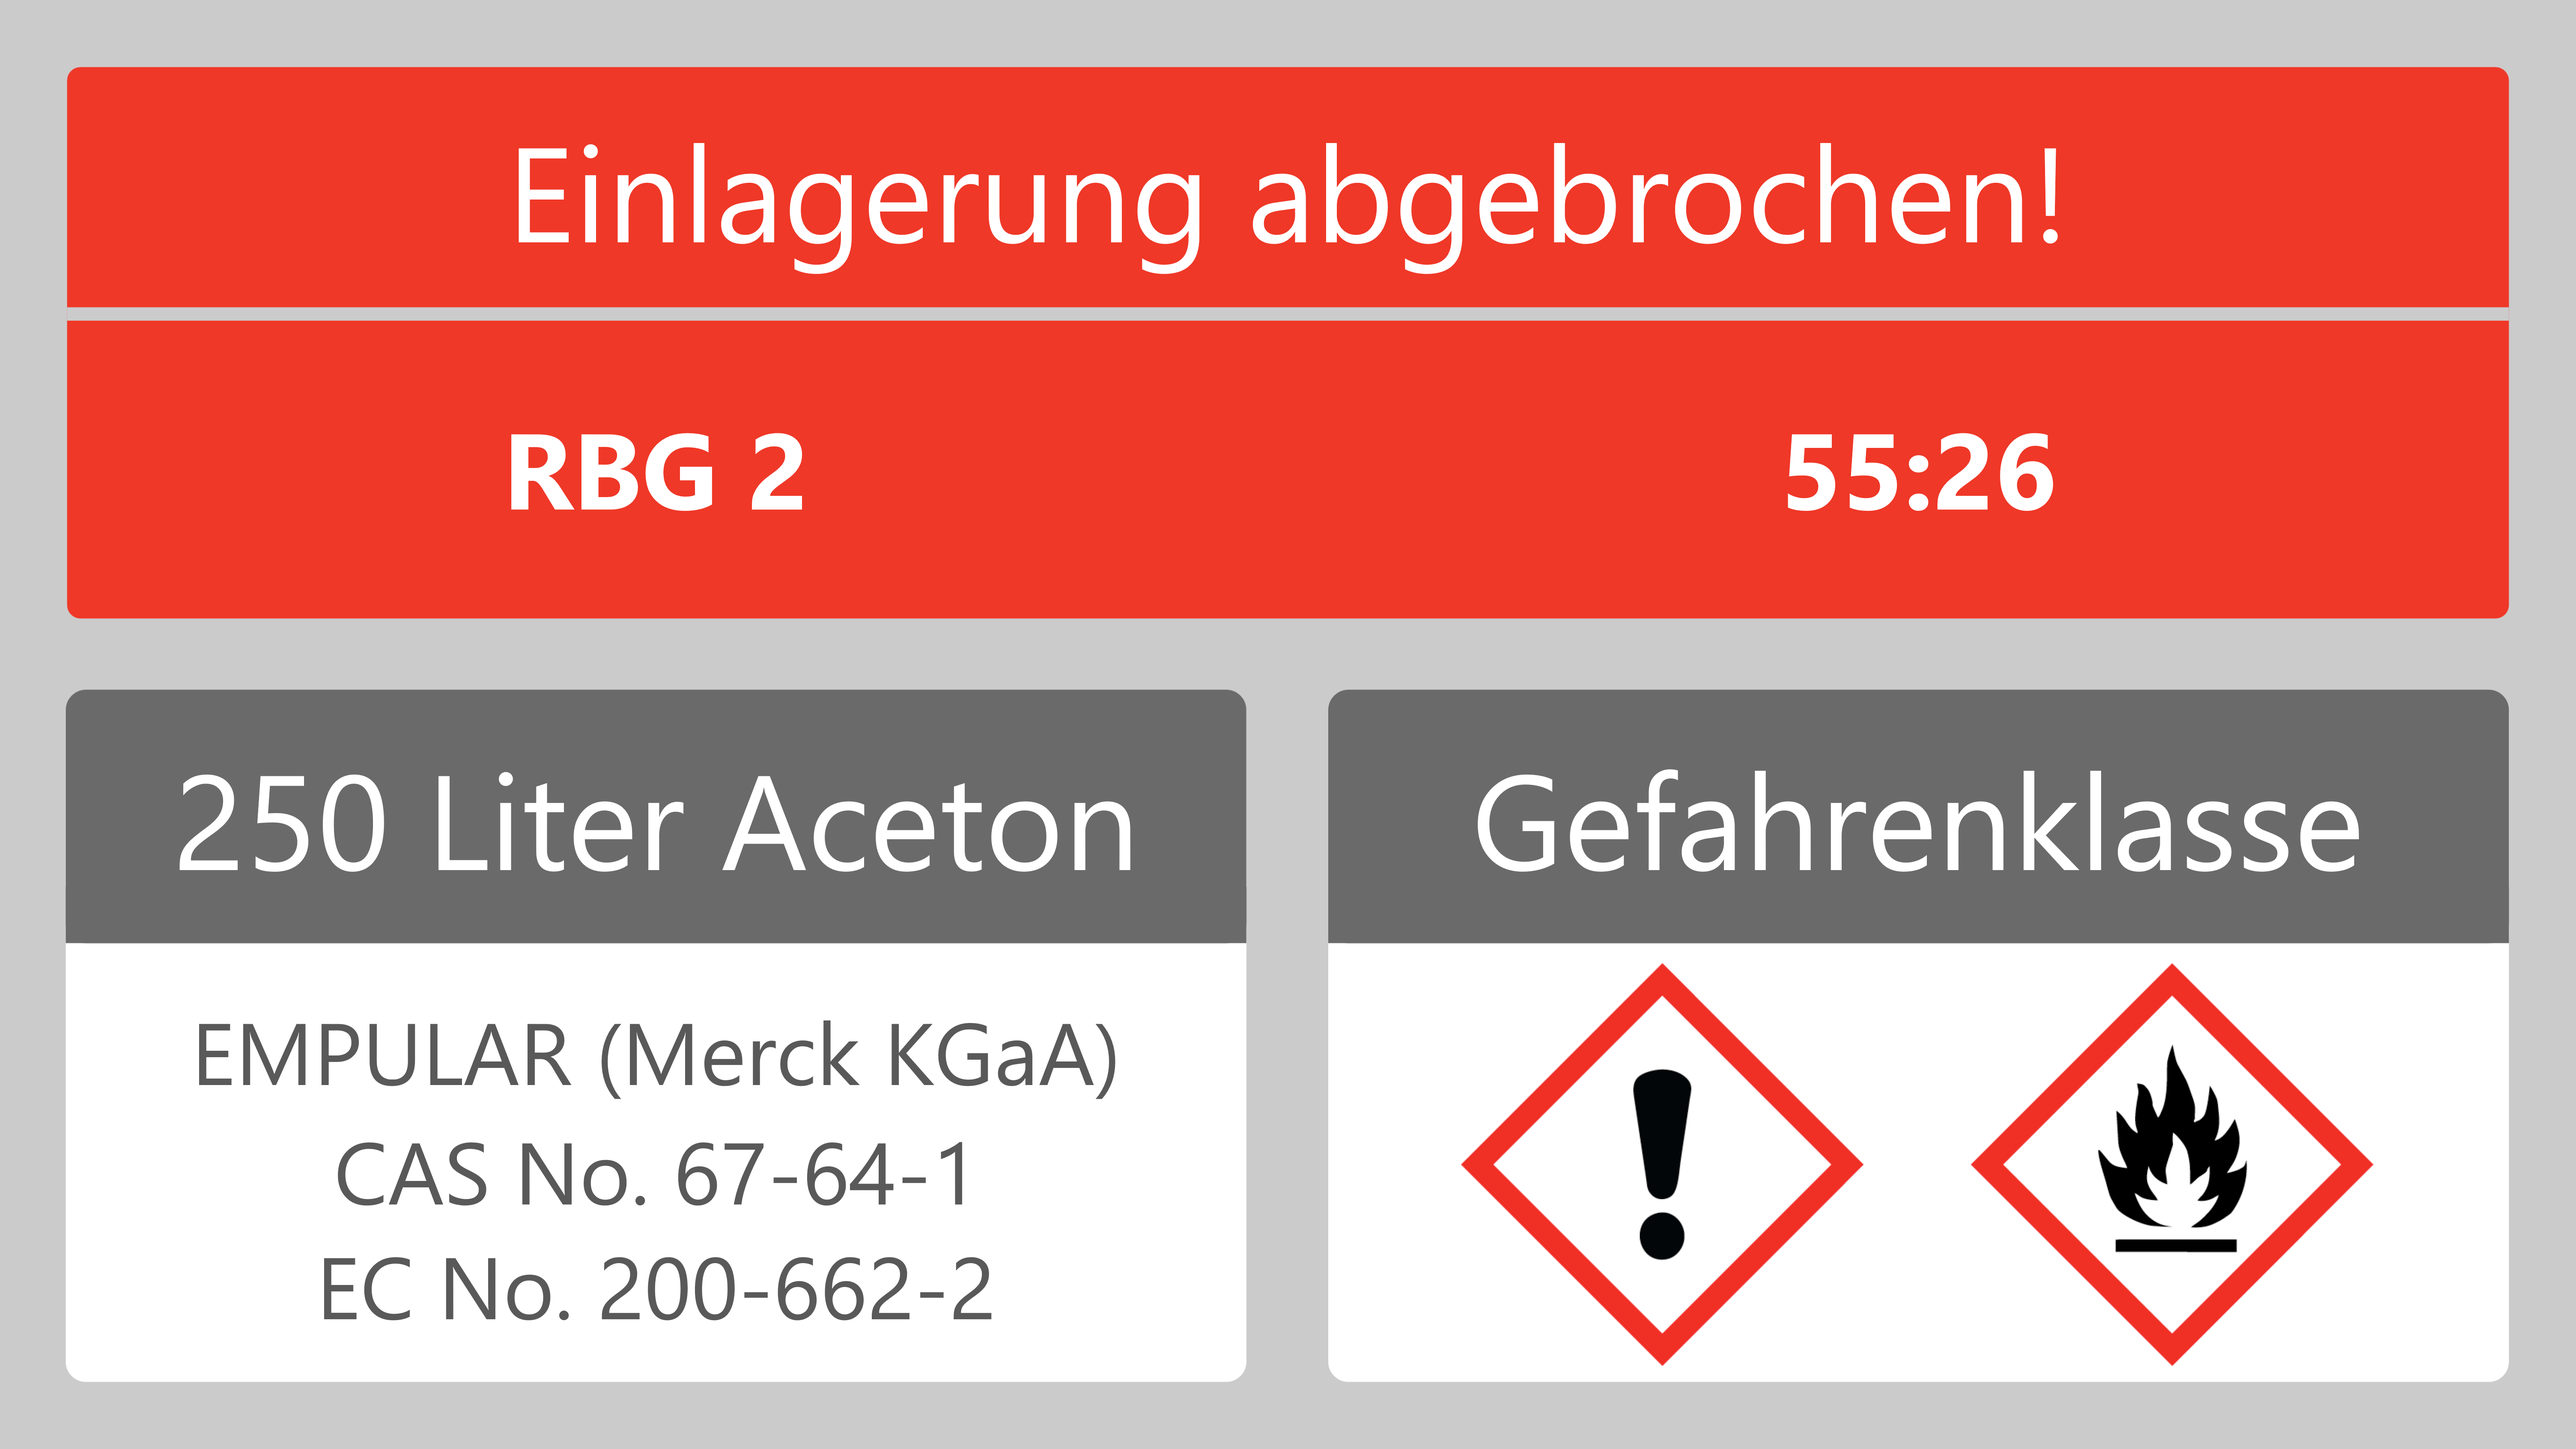
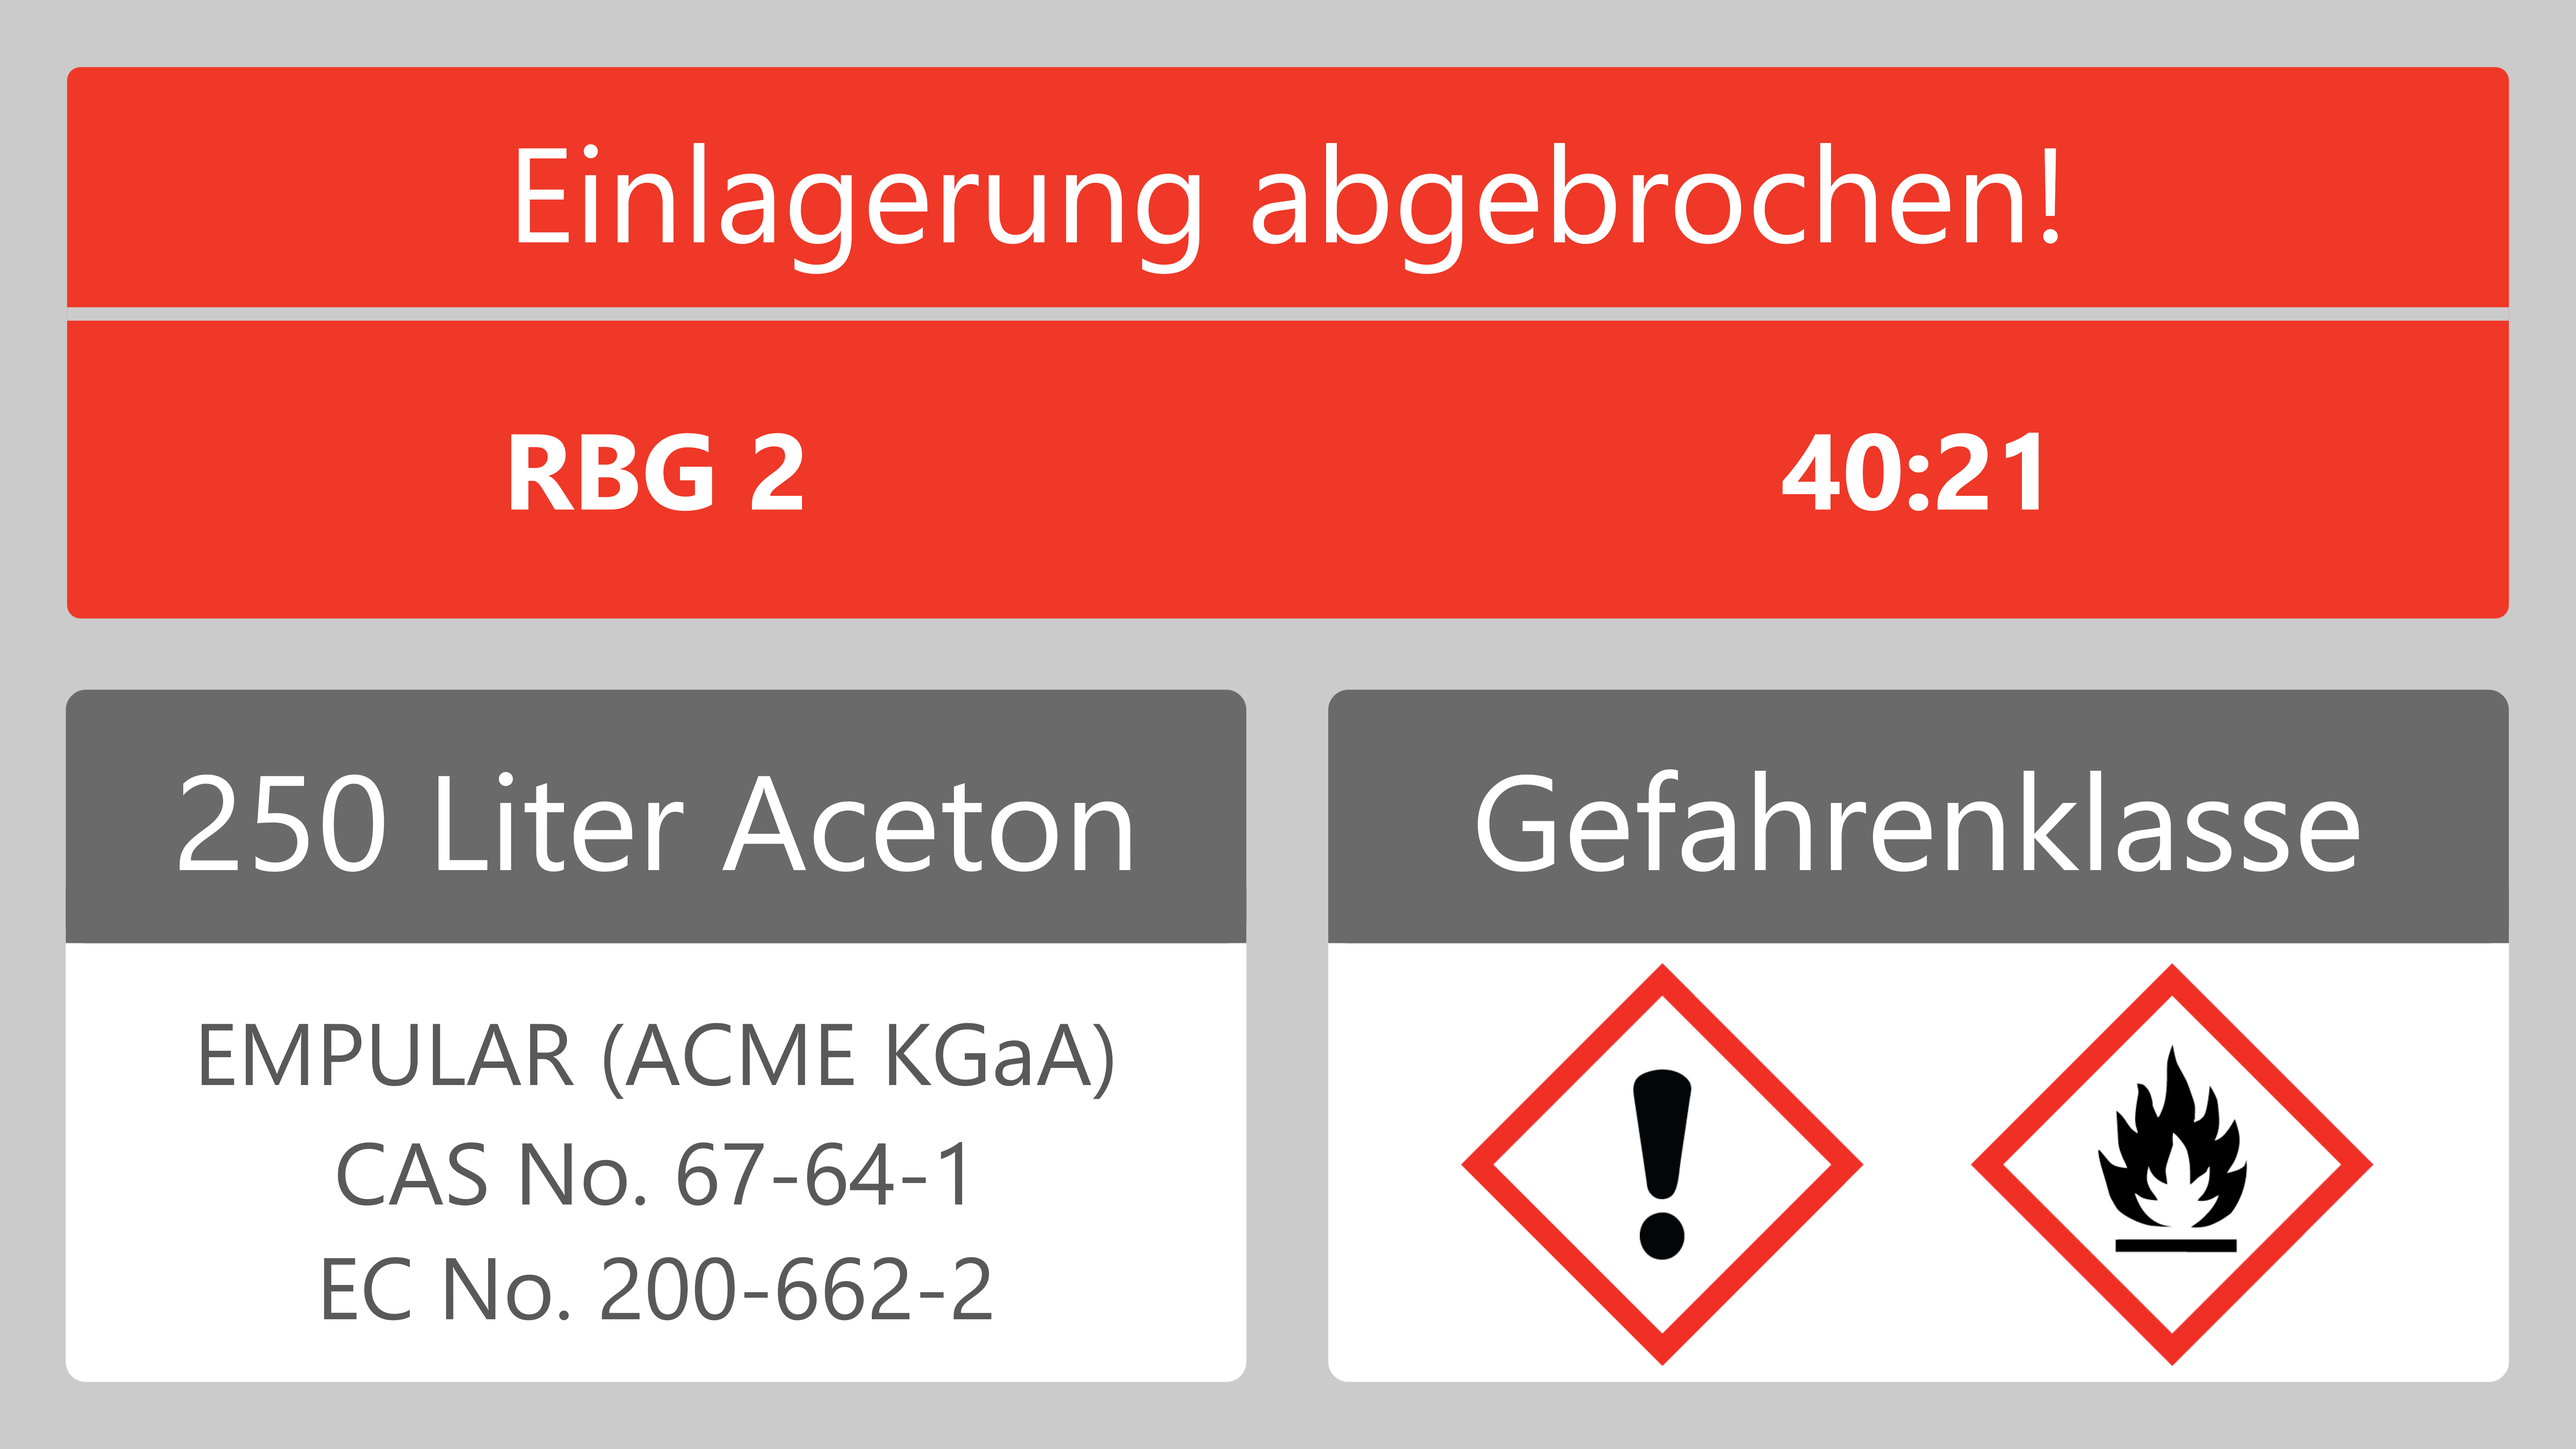
Updated Screenshots, fixed typos

Changed region(s): [[0.0938, 0.6826, 0.4375, 0.7447], [0.6875, 0.2793, 0.8125, 0.3723]]

diff --git a/_templates/Alarm_Screen_Logistic/en.md b/_templates/Alarm_Screen_Logistic/en.md
@@ -1,3 +1,4 @@
+
 ---
 layout: article
 title: Alarm Screen Logistic
@@ -13,6 +14,7 @@ category:
   - Warning
   - Logistics
 image: Alarm_Screen_Logistic_EN.png
+image_thumbnail: Alarm_Screen_Logistic_EN_thumbnail.png
 download: Alarm_Screen_Logistic_EN.pbmx
 overview_description:
   - On top&#58;	Current error code out of the control unit from the high rack storage Type (storage canceled), location of error (SRM1) and duration of error time (42:06) is shown in red 

diff --git a/_templates/Alarm_Screen_Logistic/index.md b/_templates/Alarm_Screen_Logistic/index.md
@@ -14,6 +14,7 @@ category:
   - Logistik
   - Lager
 image: Alarm_Screen_Logistic_DE.png
+image_thumbnail: Alarm_Screen_Logistic_DE_thumbnail.png
 download: Alarm_Screen_Logistic_DE.pbmx
 overview_description:
   - Oben&#58;	Aktueller Fehlercode aus der Kontrolleinheit, Position des Fehlers und verstrichene Dauer seit der Fehler aufgetreten ist.
